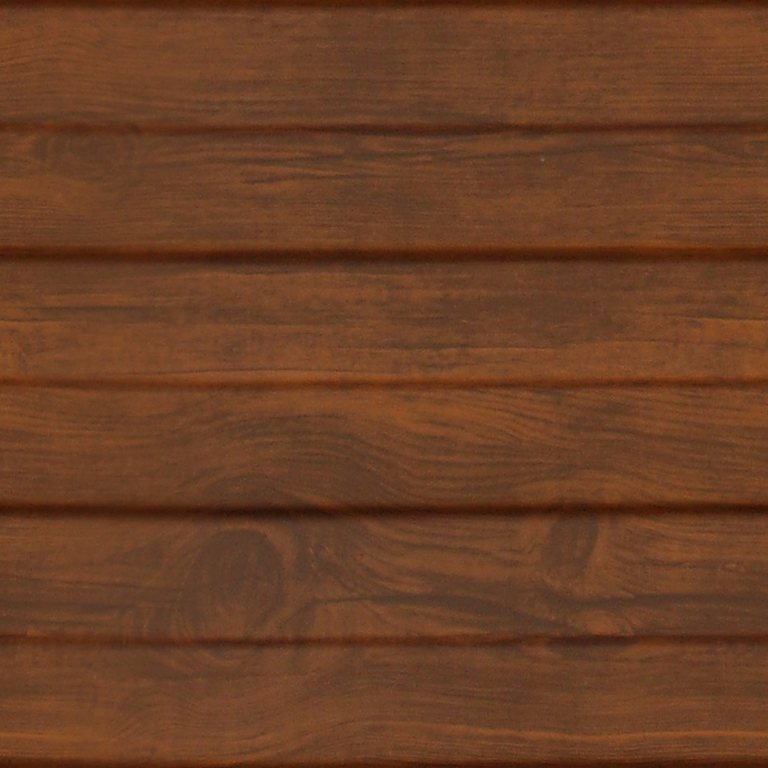
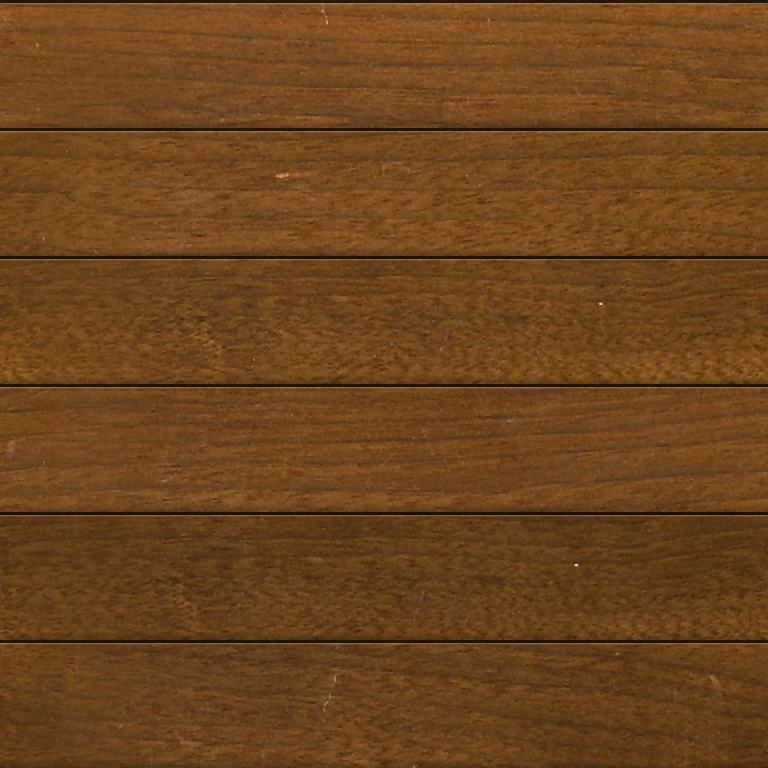
Rebuild the paneled wood from a walnut board

diff --git a/showcase/index.html b/showcase/index.html
@@ -54,7 +54,7 @@
             <span class="pillar-metric-label">smallest tile</span>
           </div>
           <h3>Light on the wire</h3>
-          <p>Each material is a tile between <b data-claim="tile-min">12 KB</b> and <b data-claim="tile-max">85 KB</b>. The notes example loads <b data-claim="notes-images">250 KB</b> of images and <b data-claim="css">91 KB</b> of CSS (<b data-claim="css-gzip">20.5 KB</b> gzipped), with no JavaScript.</p>
+          <p>Each material is a tile between <b data-claim="tile-min">12 KB</b> and <b data-claim="tile-max">85 KB</b>. The notes example loads <b data-claim="notes-images">250 KB</b> of images and <b data-claim="css">92 KB</b> of CSS (<b data-claim="css-gzip">20.5 KB</b> gzipped), with no JavaScript.</p>
         </article>
         <article class="pillar">
           <div class="pillar-visual pillar-shapes" aria-hidden="true">

diff --git a/css/components.css b/css/components.css
@@ -1256,6 +1256,11 @@ select.fam-glass-input option { color: #222; text-shadow: none; }
   box-shadow: inset 0 1px 0 rgba(255, 255, 255, .22), 0 4px 9px rgba(0, 0, 0, .6);
 }
 
+/* The walnut is a mid brown, so the light ink needs a darker bar behind it than the leathers do */
+.fam-nav.fam-wood-paneled {
+  box-shadow: inset 0 0 0 999px rgba(0, 0, 0, .35), inset 0 1px 0 rgba(255, 255, 255, .22), 0 4px 9px rgba(0, 0, 0, .6);
+}
+
 :is(.fam-leather-bar--black, .fam-leather-bar--brown, .fam-wood-paneled) .fam-nav-brand,
 :is(.fam-leather-bar--black, .fam-leather-bar--brown, .fam-wood-paneled) .fam-nav-item {
   color: #ece3cf;

diff --git a/css/effects.css b/css/effects.css
@@ -247,7 +247,7 @@
    A text shadow can only fall outside the glyph, so on its own it makes light letters look raised. */
 .fam-engraved-wood-paneled {
   font-size: 20px;
-  color: rgb(226, 188, 136);
+  color: rgb(244, 218, 176);
   font-weight: 700;
   letter-spacing: 1px;
   -webkit-text-stroke: 1px rgba(58, 26, 8, .85);

diff --git a/tools/texture-pipeline/make_planks_tile.py b/tools/texture-pipeline/make_planks_tile.py
@@ -1,0 +1,77 @@
+"""Build a seamless tile of horizontal planks from a photo of one wide board.
+
+usage: make_planks_tile.py SOURCE OUTPUT SIZE SEED
+SIZE  output tile edge in pixels
+SEED  picks which strip of the board each plank is cut from; try several and keep the layout with the fewest scratches
+The photo is turned a quarter turn so its grain runs horizontally. Each plank is a strip cut from a different place on the board, so no two
+planks share grain. The first OVERLAP columns of a strip are crossfaded into the columns just past its end, which are the same grain one tile
+further along, so the tile wraps sideways without a seam. Planks are stacked with a shaded groove between them, so it wraps vertically too.
+A small median filter takes out the dust and scratches the board's photo carries, and a light unsharp mask restores the grain.
+"""
+import random
+import sys
+from PIL import Image, ImageFilter
+
+Image.MAX_IMAGE_PIXELS = None
+
+PLANKS = 6
+GAIN = 1.9  # the photo is very dark walnut; this brings it to a mid brown
+SCALE = 0.6  # output pixels per source pixel
+OVERLAP = 300
+QUALITY = 76
+
+source_path, output_path = sys.argv[1], sys.argv[2]
+size, seed = int(sys.argv[3]), int(sys.argv[4])
+
+board = Image.open(source_path).convert("RGB").rotate(90, expand=True)
+plank_height = size // PLANKS
+strip_width, strip_height = round(size / SCALE), round(plank_height / SCALE)
+scaled_overlap = round(OVERLAP * SCALE)
+random_source = random.Random(seed)
+
+
+def cut_plank():
+    left = random_source.randrange(0, board.width - strip_width - OVERLAP)
+    top = random_source.randrange(0, board.height - strip_height)
+    strip = board.crop((left, top, left + strip_width + OVERLAP, top + strip_height))
+    # Filtering before the blend keeps the image borders, where filters treat pixels differently, away from the join
+    scaled = strip.resize((size + scaled_overlap, plank_height), Image.LANCZOS).filter(ImageFilter.MedianFilter(3))
+    scaled = scaled.filter(ImageFilter.UnsharpMask(radius=1.2, percent=60, threshold=2))
+    body = scaled.crop((0, 0, size, plank_height))
+    following = scaled.crop((size, 0, size + scaled_overlap, plank_height))
+    ramp = Image.new("L", (scaled_overlap, 1))
+    ramp.putdata([round(255 * column / (scaled_overlap - 1)) for column in range(scaled_overlap)])
+    body.paste(Image.composite(body.crop((0, 0, scaled_overlap, plank_height)), following, ramp.resize((scaled_overlap, plank_height))), (0, 0))
+    level = GAIN * random_source.uniform(0.88, 1.12)
+    return body.point(lambda value: min(255, round(value * level)))
+
+
+tile = Image.new("RGB", (size, size))
+for index in range(PLANKS):
+    tile.paste(cut_plank(), (0, index * plank_height))
+
+groove_height = max(3, round(size / 256))
+shading = Image.new("RGBA", (1, size), (0, 0, 0, 0))
+shading_pixels = shading.load()
+
+
+def lay_over(row, color, alpha):
+    row %= size
+    existing = shading_pixels[0, row]
+    combined = alpha + existing[3] / 255 * (1 - alpha)
+    channels = tuple(round((color[channel] * alpha + existing[channel] * existing[3] / 255 * (1 - alpha)) / combined) for channel in range(3))
+    shading_pixels[0, row] = channels + (round(255 * combined),)
+
+
+for index in range(PLANKS):
+    top = index * plank_height
+    for distance in range(-8, 0):
+        lay_over(top + distance, (0, 0, 0), 0.22 * (1 - abs(distance) / 9))
+    for distance in range(groove_height):
+        lay_over(top + distance, (14, 7, 3), 0.8)
+    for distance in range(groove_height, groove_height + 2):
+        lay_over(top + distance, (255, 226, 186), 0.24 if distance == groove_height else 0.08)
+
+tile = Image.alpha_composite(tile.convert("RGBA"), shading.resize((size, size))).convert("RGB")
+tile.save(output_path, quality=QUALITY)
+print(output_path, (size, size))

diff --git a/docs/superpowers/specs/2026-10-23-more-materials-design.md b/docs/superpowers/specs/2026-10-23-more-materials-design.md
@@ -13,7 +13,7 @@ The owner wants more materials to choose from. New materials get engraved text w
 
 - **Leather**: a leather material based on the regular leather frame, and an alternate leather. The owner suggested `textures/leather-bound_jayanth-muppaneni-m5o4dOHAibM-unsplash.jpg` for the alternate, as a dark brown leather that is not the tan of the current one, or all three leathers if that photo is not usable. The owner hoped for "another stitched leather type".
 - **Metal**: rename the current metal to brushed metal, class `fam-metal-brushed`, and add a second metal as plain `fam-metal` from `textures/metal_katie-harp-TnQE5X48FMA-unsplash.jpg` (fine sandblasted gray).
-- **Paneled wood**: a wood for navigation bars and as a material, if it can be made to work. Candidate photo: `textures/wood-planks_ekaterina-novitskaya-KugwNl9jX1Q-unsplash.jpg`.
+- **Paneled wood**: a wood for navigation bars and as a material, if it can be made to work. Source photo: `textures/dark-wood_the-cleveland-museum-of-art-AD8nr59mr5c-unsplash.jpg`, a dark walnut board whose grain is built into six separate planks. The first candidate, a photo of planks with bolts in it, was too soft next to the other materials.
 - **Linen**: a new texture that can be tinted, from whichever linen photo works better. Candidates: `linen_logan-voss-sFGj4Lj1un8` (clear weave) and `linen_smithsonian-NlrtBD3Iw7I` (flat yellow).
 - **Cardboard**: one cardboard, `cardboard_kiwihug-bPaRBSuvRPA` (linerboard ridges). The owner dropped the flecked chipboard variant.
 - **Denim**: `denim_mike-hindle-Js5Qi_X1qzo` (dark gray twill).
@@ -42,7 +42,7 @@ All photos are already in `textures/` and are Unsplash photos, credited the same
 
 - Navigation bars only on wood, leather, metal, paper and cardstock, and no bar on leather without a stitched edge. This replaced an earlier call that every new material gets a bar. I read the list as also asking for paper and cardstock bars, which did not exist before, and treated paper bag as its own material with no bar.
 - The current metal is renamed brushed metal with the class `fam-metal-brushed`, and the sandblasted metal is plain `fam-metal`. This replaced an earlier call to keep `fam-metal` as the brushed one.
-- The paneled wood tile must avoid the bolts or nails in the planks photo.
+- The paneled wood must hold up next to the other materials in fidelity, or be removed.
 - The design is approved.
 
 ## Calls I made (the owner can change these)
@@ -50,7 +50,7 @@ All photos are already in `textures/` and are Unsplash photos, credited the same
 - **Names**: `fam-metal-button` stays the brushed button and sandblasted buttons are `fam-metal-button--sandblasted`; the owner named only the surfaces, so the button names are my call. Paneled wood is `fam-wood-paneled`. Names for the leathers, linen, cardboard, denim and paper bag follow the same `fam-<material>` pattern, and the builder picks them.
 - **Leathers**: keep the current `fam-leather` (all three leathers exist, which the owner allowed). Add one plain material from the regular leather frame's fill (the pebbled leather) and one dark brown alternate. The alternate is probably not the `leather-bound` photo alone, because that photo is bright orange with a smooth grain and one vertical stitch line, which cannot repeat as a tile. The frame's own photo (`leather-stitched_olga-kovalski`) is already dark brown before the tan and black processing, so a dark brown stitched frame and bar edge may be cheap to cut with the existing pipeline. The builder checks this and picks the better source, and `leather-bound` is used only if it works.
 - **Tinting**: linen and denim become grayscale tiles tinted by `--fam-tint` with `multiply`, like the felt, with a default tint of dark gray for linen and an indigo for denim. Cardboard and paper bag keep their photo colors, like paper and cork.
-- **Wood-planks tile**: cropped so no bolt or nail shows in it, and so it tiles cleanly. If it cannot be made to tile without a visible seam or repeat, paneled wood is dropped and the owner is told. No substitute is shipped.
+- **Paneled wood tile**: built from the walnut board photo by `make_planks_tile.py`, with each plank cut from a different place on the board. It must tile without a visible seam or repeat; if it cannot, paneled wood is dropped and the owner is told. No substitute is shipped.
 - **Alternate leather stitching**: stitching is not required. If a dark brown stitched frame and bar edge do not cut well, a plain dark brown leather is acceptable, and the owner is told it is not stitched.
 - **Contrast**: the same rendered-pixel contrast audit the kit already runs (`tools/contrast-audit.mjs`, `tests/contrast.test.mjs`), at the default tint, for navigation bar text and for engraved text. A custom tint on linen or denim is the user's responsibility, as it is for the felt.
 - **Tile size**: 13 KB to 85 KB describes the current tiles and is a guideline. A tile that needs more to avoid a visible seam can go over, and the reason is recorded in `CREDITS.md`.

diff --git a/docs/superpowers/plans/2026-10-23-more-materials.md b/docs/superpowers/plans/2026-10-23-more-materials.md
@@ -15,7 +15,7 @@
 - The current metal is `fam-metal-brushed` and the sandblasted metal is plain `fam-metal`. `fam-metal-button` stays the brushed button; sandblasted buttons are `fam-metal-button--sandblasted`.
 - No new JavaScript. New work meets WCAG AA contrast on rendered pixels at 1440px and 375px, shows a focus ring, and keeps the forced-colors and reduced-motion rules that `.fam-nav` already carries.
 - Tiles never stretch and a material you do not use is never downloaded. Tile files should stay between 13 KB and 85 KB; a tile that needs more goes over, and `CREDITS.md` says why.
-- The paneled wood tile must show no bolt or nail. If a planks crop cannot tile without a visible seam or repeat, drop paneled wood, tell the owner, and ship no substitute.
+- The paneled wood tile must hold up in fidelity next to the other materials, tile without a visible seam or repeat, and show no bolt or nail. Otherwise drop paneled wood, tell the owner, and ship no substitute.
 - Class names: `fam-metal`, `fam-metal-button--sandblasted`, `fam-leather-pebbled` (modifiers `--black`, `--brown`), `fam-leather-frame--brown`, `fam-leather-bar--brown`, `fam-wood-paneled`, `fam-linen`, `fam-cardboard`, `fam-denim`, `fam-paper-bag`. Asset names: `<material>-tile.jpg`.
 - Linen and denim take their own tint variable, like `--fam-cardstock-tint`: `--fam-linen-tint` (default dark gray) and `--fam-denim-tint` (default indigo). One shared `--fam-tint` cannot have two defaults. Cardboard and paper bag keep their photo colors.
 - Source photos are already in `textures/`. Credit each in `CREDITS.md` with the photographer (the name inside the file name) and the exact command that made the asset.
@@ -96,14 +96,14 @@ The black frame and fill are neutral gray (fill mean is about 45,45,45), the tan
 ### Task 4: Paneled wood
 
 **Files:**
-- Create: `assets/wood-paneled-tile.jpg` from `textures/wood-planks_ekaterina-novitskaya-KugwNl9jX1Q-unsplash.jpg`
+- Create: `assets/wood-paneled-tile.jpg` from `textures/dark-wood_the-cleveland-museum-of-art-AD8nr59mr5c-unsplash.jpg` with `tools/texture-pipeline/make_planks_tile.py`
 - Modify: files named in the checklist plus `css/effects.css`
 
 **Interfaces:**
 - Produces: `fam-wood-paneled`, `.fam-engraved-wood-paneled`
 
 - [ ] **Step 1:** Checklist step 1 with id `wood-paneled`. Expect FAIL.
-- [ ] **Step 2:** Cut the tile from a crop that avoids every bolt and nail, with the plank seams horizontal in the finished tile and the repeat period an exact multiple of the plank spacing so the seams line up. Add a check to the checklist's look step: no nail visible in a 3x3 repeat.
+- [ ] **Step 2:** Build the tile from the walnut board: six planks, each from a different strip of the board, joined by shaded grooves, horizontal in the finished tile. Try several seeds and keep the cleanest.
 - [ ] **Step 3:** The surface is dark, so the nav bar and a light engraved class `.fam-engraved-wood-paneled` take light ink, fitted to the tile pixels. Add a `fam-wood-paneled` panel to `#scene-engraved`.
 - [ ] **Step 4:** Checklist steps 3 to 8. Commit message: `Add paneled wood with a navigation bar`.
 

diff --git a/CREDITS.md b/CREDITS.md
@@ -10,7 +10,7 @@ Every texture in `assets/` is processed from a photograph on Unsplash. Unsplash 
 | `linen-tile.jpg` | `linen_logan-voss-sFGj4Lj1un8-unsplash.jpg` | logan-voss | `make_tile.py 0.3 384 40`, then `to_gray_tint_tile.py ... 215 18` |
 | `denim-tile.jpg` | `denim_mike-hindle-Js5Qi_X1qzo-unsplash.jpg` | mike-hindle | `make_tile.py 0.2 512 40`, then `to_gray_tint_tile.py ... 200 24` |
 | `wood-light-tile.jpg` | `wood_smithsonian-e0pPip5TQRE-unsplash.jpg` | smithsonian | `make_tile.py 0.5 512 60 90` |
-| `wood-paneled-tile.jpg` | `wood-planks_ekaterina-novitskaya-KugwNl9jX1Q-unsplash.jpg` | ekaterina-novitskaya | `make_paneled_tile.py ... 654 1596 700 768 300`, six whole planks cut clear of the bolts and turned to run horizontally |
+| `wood-paneled-tile.jpg` | `dark-wood_the-cleveland-museum-of-art-AD8nr59mr5c-unsplash.jpg` | the-cleveland-museum-of-art | `make_planks_tile.py ... 768 21`, six planks cut from different places on one walnut board, with scratches filtered out |
 | `metal-tile.jpg` | `metal-brushed_apryan-widodo-tRrIXmtOmL4-unsplash.jpg` | apryan-widodo | `make_tile.py 0.55 512 14` |
 | `metal-sandblasted-tile.jpg` | `metal_katie-harp-TnQE5X48FMA-unsplash.jpg` | katie-harp | `make_tile.py 0.9 512 40` |
 | `metal-brushed.jpg` | `metal-brushed_apryan-widodo-tRrIXmtOmL4-unsplash.jpg` | apryan-widodo | processed copy, recipe not recorded |

diff --git a/README.md b/README.md
@@ -14,7 +14,7 @@ Textures are compact tiles to load fast. Each is between 12 KB and 85 KB, and a 
 
 Beyond the look:
 
-- **Light.** The notes example (`examples/notes.html`) loads 250 KB of images and 91 KB of CSS (20.5 KB gzipped), the same at 375px and 1440px wide. There is no JavaScript.
+- **Light.** The notes example (`examples/notes.html`) loads 250 KB of images and 92 KB of CSS (20.5 KB gzipped), the same at 375px and 1440px wide. There is no JavaScript.
 - **Responsive without extra work.** Tiles repeat to fill any box. Photo frames are nine-sliced and the leather bar's stitched edge repeats along its length, so both fit any width.
 - **Accessible, and tested.** Contrast is measured on the rendered pixels against WCAG AA, every control has a keyboard focus ring, and forced colors, disabled states and missing backdrop blur are handled. See [Accessibility](#accessibility).
 - **Easy to adopt.** One stylesheet, `fam-` classes and `--fam-` custom properties. Because it is plain CSS, it sits alongside whatever framework you use.
